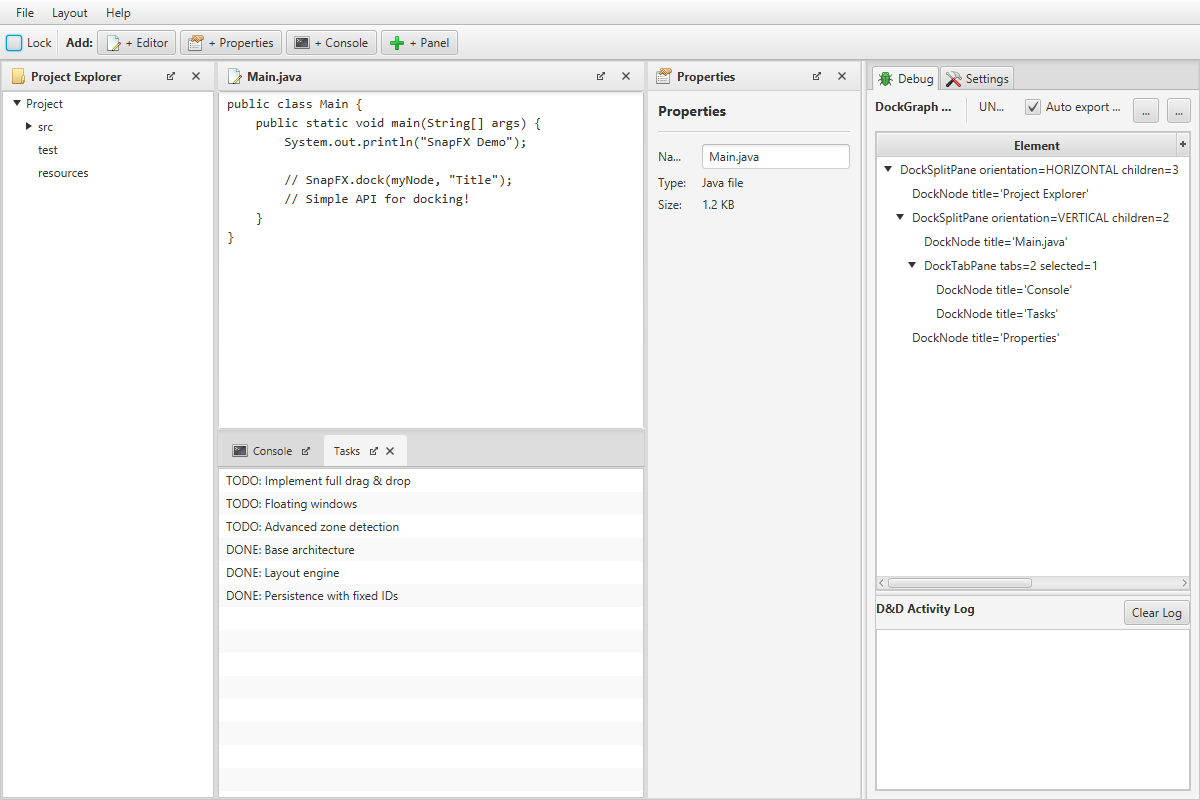
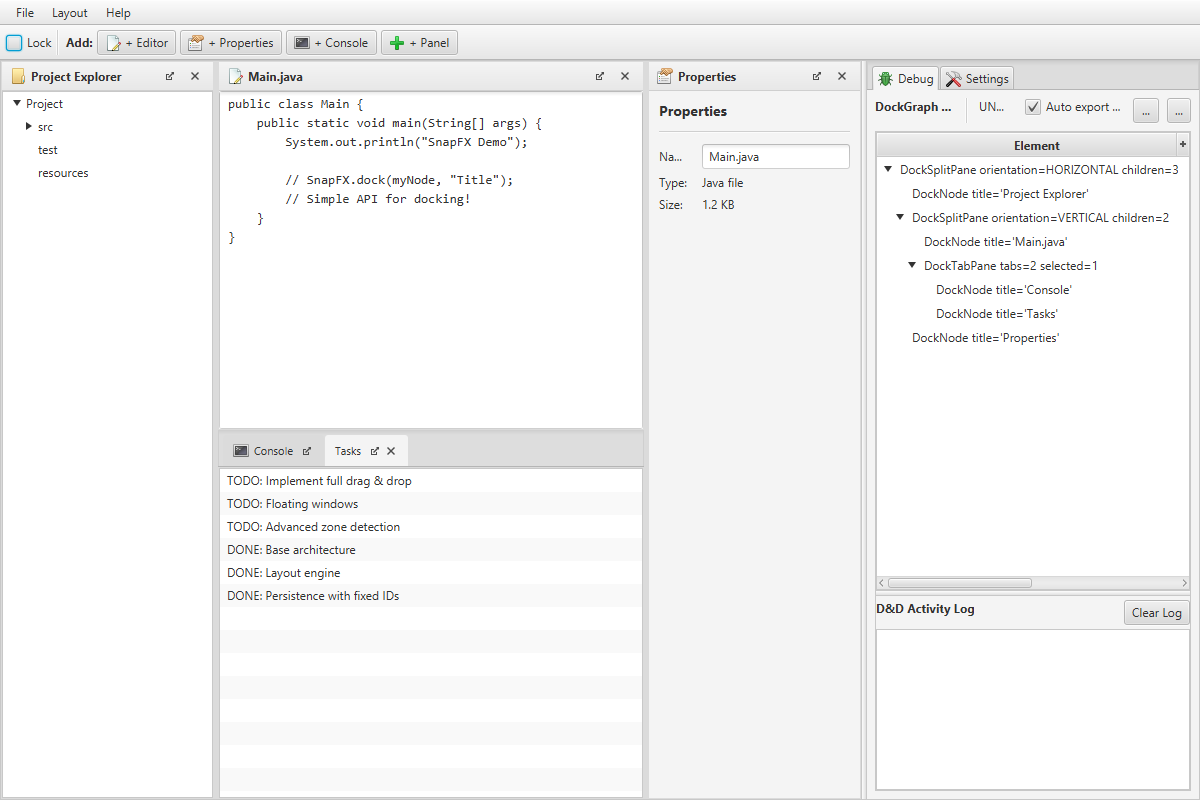
fix: unify dock split divider affordance across layouts
Use a CSS-only divider styling approach with shared DockSplitPane selectors, 2px divider padding, and consistent hover feedback in light/dark themes.

Add DockLayoutEngine regression coverage to verify split-pane style class assignment and divider-node presence after DnD and rebuild flows.

Promote Unreleased entries to v0.6.3 in CHANGELOG and refresh the MainDemo preview image for the updated splitter look.

diff --git a/snapfx-core/src/main/resources/snapfx.css b/snapfx-core/src/main/resources/snapfx.css
@@ -253,21 +253,43 @@
     -fx-padding: 0;
 }
 
-.dock-split-pane > .split-pane-divider {
+.dock-split-pane > .split-pane-divider,
+.dock-split-pane .split-pane-divider {
     -fx-background-color: derive(-fx-background, -10%);
-    -fx-padding: 0 1 0 1;
+    -fx-padding: 0;
+    -fx-background-insets: 0;
 }
 
-.dock-split-pane:horizontal > .split-pane-divider {
-    -fx-background-color: derive(-fx-background, -10%);
-    -fx-padding: 0 1 0 1;
+.dock-split-pane:horizontal > .split-pane-divider,
+.dock-split-pane:horizontal .split-pane-divider {
+    -fx-padding:2px;
+    -fx-cursor: h_resize;
 }
 
-.dock-split-pane:vertical > .split-pane-divider {
-    -fx-background-color: derive(-fx-background, -10%);
-    -fx-padding: 1 0 1 0;
+.dock-split-pane:vertical > .split-pane-divider,
+.dock-split-pane:vertical .split-pane-divider {
+    -fx-cursor: v_resize;
+    -fx-padding:2px;
 }
 
+.dock-split-pane > .split-pane-divider > .grabber,
+.dock-split-pane > .split-pane-divider > .horizontal-grabber,
+.dock-split-pane > .split-pane-divider > .vertical-grabber,
+.dock-split-pane .split-pane-divider .grabber,
+.dock-split-pane .split-pane-divider .horizontal-grabber,
+.dock-split-pane .split-pane-divider .vertical-grabber {
+    -fx-background-color: transparent;
+    -fx-background-insets: 0;
+    -fx-padding: 0;
+    -fx-opacity: 0;
+}
+
+.dock-split-pane > .split-pane-divider:hover,
+.dock-split-pane:horizontal > .split-pane-divider:hover,
+.dock-split-pane:vertical > .split-pane-divider:hover,
+.dock-split-pane .split-pane-divider:hover {
+    -fx-background-color: rgba(75, 140, 245, 0.18);
+}
 /* ===== DockTabPane ===== */
 .dock-tab-pane {
     -fx-background-color: -fx-background;

diff --git a/snapfx-core/src/main/resources/snapfx-dark.css b/snapfx-core/src/main/resources/snapfx-dark.css
@@ -29,10 +29,17 @@
 
 .dock-split-pane > .split-pane-divider,
 .dock-split-pane:horizontal > .split-pane-divider,
-.dock-split-pane:vertical > .split-pane-divider {
+.dock-split-pane:vertical > .split-pane-divider,
+.dock-split-pane .split-pane-divider {
     -fx-background-color: #25272c;
 }
 
+.dock-split-pane > .split-pane-divider:hover,
+.dock-split-pane:horizontal > .split-pane-divider:hover,
+.dock-split-pane:vertical > .split-pane-divider:hover,
+.dock-split-pane .split-pane-divider:hover {
+    -fx-background-color: rgba(93, 169, 255, 0.20);
+}
 .dock-tab-pane .tab-header-area {
     -fx-background-color: #25272c;
 }

diff --git a/snapfx-core/src/test/java/org/snapfx/view/DockLayoutEngineTest.java b/snapfx-core/src/test/java/org/snapfx/view/DockLayoutEngineTest.java
@@ -37,6 +37,10 @@ import java.lang.reflect.Method;
 import java.util.ArrayList;
 import java.util.List;
 import java.util.Map;
+import java.util.Objects;
+import java.util.stream.Stream;
+import java.util.concurrent.CountDownLatch;
+import java.util.concurrent.TimeUnit;
 import java.util.concurrent.atomic.AtomicReference;
 
 import static org.junit.jupiter.api.Assertions.*;
@@ -438,6 +442,138 @@ class DockLayoutEngineTest extends ApplicationTest {
         SplitPane splitPane = (SplitPane) view;
         assertEquals(2, splitPane.getItems().size());
     }
+    @Test
+    void testHorizontalSplitPaneHasDockStyleAndDividerNode() {
+        DockSplitPane root = new DockSplitPane(Orientation.HORIZONTAL);
+        root.addChild(new DockNode(new Label("Left"), "Left"));
+        root.addChild(new DockNode(new Label("Right"), "Right"));
+        dockGraph.setRoot(root);
+
+        SplitPane splitPane = assertInstanceOf(SplitPane.class, layoutEngine.buildSceneGraph());
+        Scene scene = createStyledScene(splitPane, 900, 600);
+        scene.getRoot().applyCss();
+        scene.getRoot().layout();
+        waitForFxEvents();
+
+        assertTrue(splitPane.getStyleClass().contains(DockThemeStyleClasses.DOCK_SPLIT_PANE));
+        assertTrue(countDirectDividerNodes(splitPane) >= 1, "Expected at least one direct divider node");
+    }
+
+    @Test
+    void testVerticalSplitPaneHasDockStyleAndDividerNode() {
+        DockSplitPane root = new DockSplitPane(Orientation.VERTICAL);
+        root.addChild(new DockNode(new Label("Top"), "Top"));
+        root.addChild(new DockNode(new Label("Bottom"), "Bottom"));
+        dockGraph.setRoot(root);
+
+        SplitPane splitPane = assertInstanceOf(SplitPane.class, layoutEngine.buildSceneGraph());
+        Scene scene = createStyledScene(splitPane, 900, 600);
+        scene.getRoot().applyCss();
+        scene.getRoot().layout();
+        waitForFxEvents();
+
+        assertTrue(splitPane.getStyleClass().contains(DockThemeStyleClasses.DOCK_SPLIT_PANE));
+        assertTrue(countDirectDividerNodes(splitPane) >= 1, "Expected at least one direct divider node");
+    }
+
+    @Test
+    void testVerticalSplitPaneDividerNodesUpdateAfterAddingChild() {
+        DockSplitPane root = new DockSplitPane(Orientation.VERTICAL);
+        root.addChild(new DockNode(new Label("Top"), "Top"));
+        root.addChild(new DockNode(new Label("Middle"), "Middle"));
+        dockGraph.setRoot(root);
+
+        SplitPane splitPane = assertInstanceOf(SplitPane.class, layoutEngine.buildSceneGraph());
+        Scene scene = createStyledScene(splitPane, 900, 700);
+        scene.getRoot().applyCss();
+        scene.getRoot().layout();
+        waitForFxEvents();
+
+        assertTrue(splitPane.getStyleClass().contains(DockThemeStyleClasses.DOCK_SPLIT_PANE));
+        assertTrue(countDirectDividerNodes(splitPane) >= 1, "Expected one divider node for two split items");
+
+        root.addChild(new DockNode(new Label("Bottom"), "Bottom"));
+        scene.getRoot().applyCss();
+        scene.getRoot().layout();
+        waitForFxEvents();
+
+        assertTrue(splitPane.getDividers().size() >= 2, "Expected an additional divider after adding third child");
+        assertTrue(countDirectDividerNodes(splitPane) >= 2, "Expected direct divider nodes to match multi-split layout");
+    }
+
+    @Test
+    void testDividerNodesRemainPresentAfterMovingPropertiesNodeToBottomAcrossFullWidth() {
+        DockNode projectNode = new DockNode(new Label("Project"), "Project Explorer");
+        DockNode editorNode = new DockNode(new Label("Editor"), "Main.java");
+        DockNode propertiesNode = new DockNode(new Label("Properties"), "Properties");
+        DockNode consoleNode = new DockNode(new Label("Console"), "Console");
+        DockNode tasksNode = new DockNode(new Label("Tasks"), "Tasks");
+
+        dockGraph.setRoot(projectNode);
+        dockGraph.dock(editorNode, projectNode, DockPosition.RIGHT);
+        dockGraph.dock(propertiesNode, editorNode, DockPosition.RIGHT);
+        dockGraph.dock(consoleNode, editorNode, DockPosition.BOTTOM);
+        dockGraph.dock(tasksNode, consoleNode, DockPosition.CENTER);
+
+        DockElement initialRoot = dockGraph.getRoot();
+        assertNotNull(initialRoot);
+        dockGraph.move(propertiesNode, initialRoot, DockPosition.BOTTOM);
+
+        SplitPane rootSplit = assertInstanceOf(SplitPane.class, layoutEngine.buildSceneGraph());
+        assertEquals(Orientation.VERTICAL, rootSplit.getOrientation());
+
+        Scene scene = createStyledScene(rootSplit, 1200, 800);
+        scene.getRoot().applyCss();
+        scene.getRoot().layout();
+        waitForFxEvents();
+
+        assertTrue(rootSplit.getStyleClass().contains(DockThemeStyleClasses.DOCK_SPLIT_PANE));
+        assertTrue(countDirectDividerNodes(rootSplit) >= 1, "Expected root split to expose divider node");
+
+        List<SplitPane> nestedVerticalSplits = rootSplit.lookupAll(".split-pane").stream()
+            .filter(SplitPane.class::isInstance)
+            .map(SplitPane.class::cast)
+            .filter(split -> split != rootSplit && split.getOrientation() == Orientation.VERTICAL)
+            .toList();
+        nestedVerticalSplits.forEach(split -> {
+            assertTrue(split.getStyleClass().contains(DockThemeStyleClasses.DOCK_SPLIT_PANE));
+            if (split.getItems().size() > 1) {
+                assertTrue(countDirectDividerNodes(split) >= 1, "Expected divider nodes for nested multi-item split");
+            }
+        });
+    }
+
+    @Test
+    void testAllDockSplitPaneViewsRetainStyleClassAfterDnDRebuild() {
+        DockNode projectNode = new DockNode(new Label("Project"), "Project Explorer");
+        DockNode editorNode = new DockNode(new Label("Editor"), "Main.java");
+        DockNode propertiesNode = new DockNode(new Label("Properties"), "Properties");
+        DockNode consoleNode = new DockNode(new Label("Console"), "Console");
+        DockNode tasksNode = new DockNode(new Label("Tasks"), "Tasks");
+
+        dockGraph.setRoot(projectNode);
+        dockGraph.dock(editorNode, projectNode, DockPosition.RIGHT);
+        dockGraph.dock(propertiesNode, editorNode, DockPosition.RIGHT);
+        dockGraph.dock(consoleNode, editorNode, DockPosition.BOTTOM);
+        dockGraph.dock(tasksNode, consoleNode, DockPosition.CENTER);
+
+        DockElement rootBeforeMove = dockGraph.getRoot();
+        assertNotNull(rootBeforeMove);
+        dockGraph.move(propertiesNode, rootBeforeMove, DockPosition.BOTTOM);
+
+        SplitPane rootSplit = assertInstanceOf(SplitPane.class, layoutEngine.buildSceneGraph());
+        Scene scene = createStyledScene(rootSplit, 1200, 800);
+        scene.getRoot().applyCss();
+        scene.getRoot().layout();
+        waitForFxEvents();
+
+        List<SplitPane> splitPanes = collectDockSplitPanes(rootSplit);
+        assertFalse(splitPanes.isEmpty(), "Expected at least one split pane in dock layout");
+        splitPanes.forEach(splitPane -> assertTrue(
+            splitPane.getStyleClass().contains(DockThemeStyleClasses.DOCK_SPLIT_PANE),
+            "Expected split pane to contain style class '" + DockThemeStyleClasses.DOCK_SPLIT_PANE + "'"
+        ));
+    }
 
     @Test
     void testAddElementZonesHandlesSmallLeafBoundsWithoutClampException() {
@@ -836,7 +972,46 @@ class DockLayoutEngineTest extends ApplicationTest {
             }
         }
     }
+    private List<Node> getDirectDividerNodes(SplitPane splitPane) {
+        return splitPane.getChildrenUnmodifiable().stream()
+            .filter(child -> child.getStyleClass().contains("split-pane-divider"))
+            .toList();
+    }
 
+    private int countDirectDividerNodes(SplitPane splitPane) {
+        return getDirectDividerNodes(splitPane).size();
+    }
+
+    private Scene createStyledScene(Node contentNode, double width, double height) {
+        Scene scene = new Scene(new StackPane(contentNode), width, height);
+        String stylesheetUrl = Objects.requireNonNull(
+            DockLayoutEngineTest.class.getResource("/snapfx.css"),
+            "Expected snapfx.css test resource to be available"
+        ).toExternalForm();
+        scene.getStylesheets().add(stylesheetUrl);
+        return scene;
+    }
+
+    private List<SplitPane> collectDockSplitPanes(SplitPane rootSplit) {
+        return Stream.concat(
+                Stream.of(rootSplit),
+                rootSplit.lookupAll(".split-pane").stream()
+                    .filter(SplitPane.class::isInstance)
+                    .map(SplitPane.class::cast)
+            )
+            .distinct()
+            .toList();
+    }
+    private void waitForFxEvents() {
+        CountDownLatch latch = new CountDownLatch(1);
+        Platform.runLater(latch::countDown);
+        try {
+            assertTrue(latch.await(5, TimeUnit.SECONDS), "Timed out waiting for JavaFX events");
+        } catch (InterruptedException interruptedException) {
+            Thread.currentThread().interrupt();
+            fail("Interrupted while waiting for JavaFX events", interruptedException);
+        }
+    }
     private List<DockNode> buildLargeLayout(int nodeCount) {
         List<DockNode> nodes = new ArrayList<>(nodeCount);
         DockPosition[] positions = {

diff --git a/CHANGELOG.md b/CHANGELOG.md
@@ -16,6 +16,14 @@ Changelog categories for `Unreleased` and new release sections (in order, includ
 
 ## Unreleased
 
+## v0.6.3 - 2026-03-09
+
+### UI and Interaction
+- Improved DockSplitPane divider usability: both orientations now use a consistent 4px divider thickness with explicit resize cursors, and divider hover highlighting now matches the sidebar-resize interaction style.
+
+### Tests
+- Added `DockLayoutEngineTest` coverage to verify DockSplitPane style-class assignment and divider-node presence after DnD/rebuild flows.
+
 ### Documentation
 - ✅ Added [docs/ANIMATED_GIFS.md](docs/ANIMATED_GIFS.md) as a dedicated animated feature showcase page (Drag & Drop, Side Bars, Snapping + Themes) and linked it from [README.md](README.md).
 
